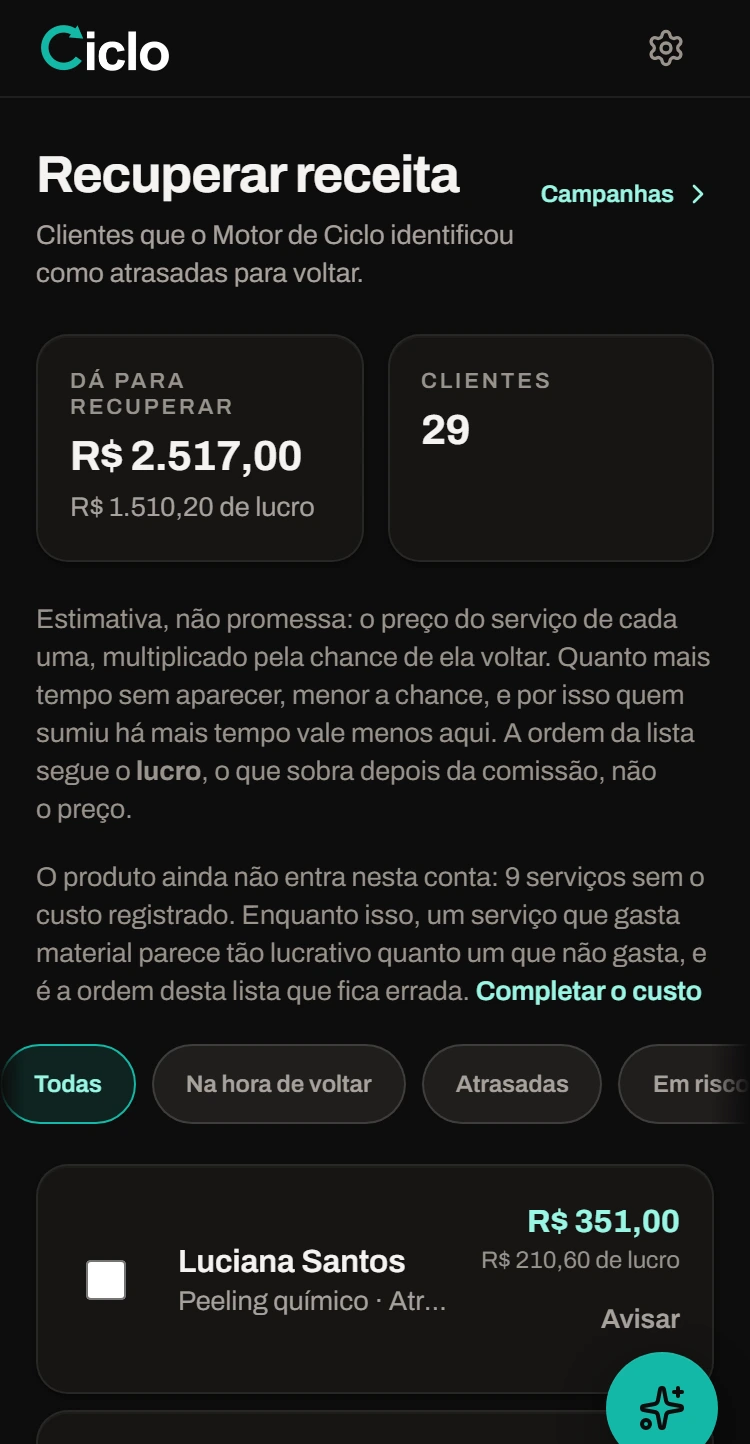
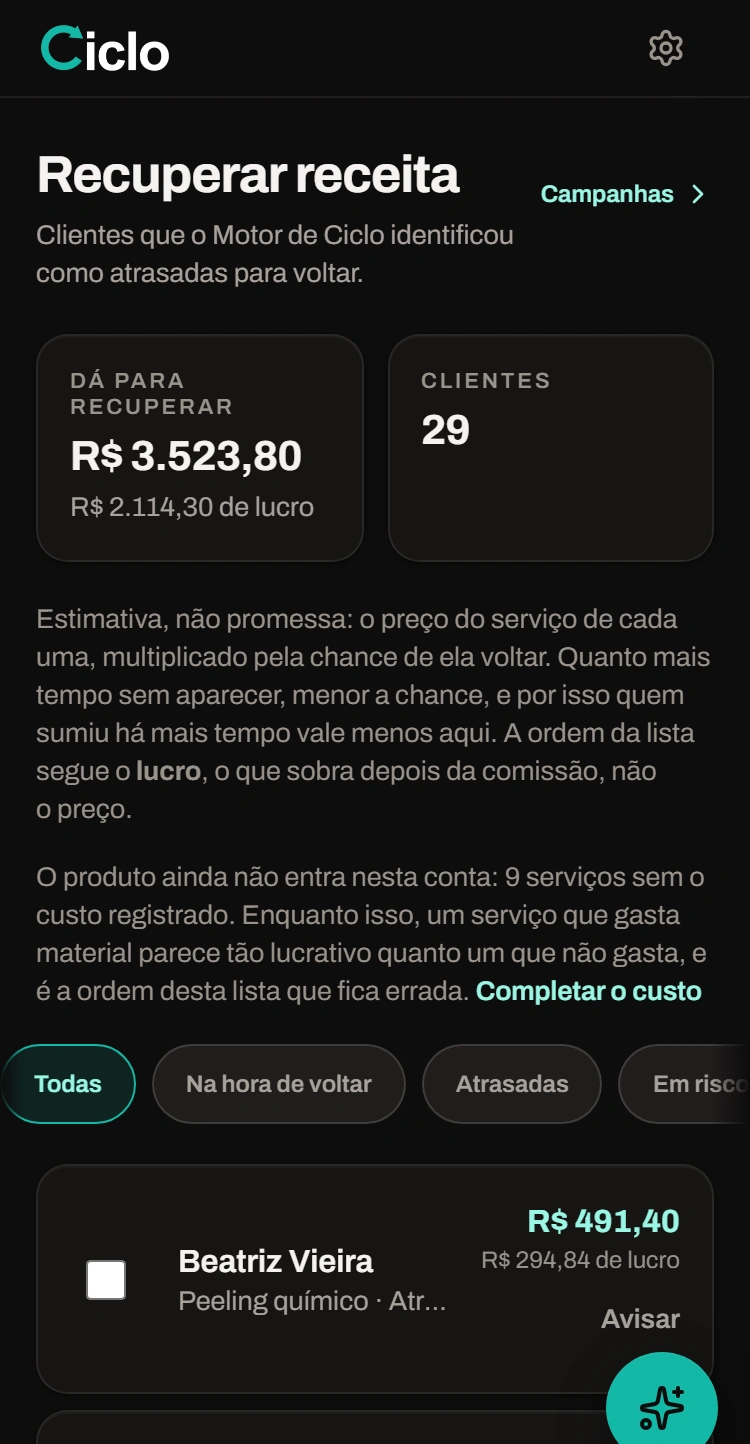
feat(agendamento): Hoje deixa de ficar vazio, Recuperar e Ticket medio sobem mais (TICKET-UX13)
Pedido do usuario: melhorar o print e inflacionar o dinheiro em TODAS
as telas, nao so Recuperar -- inclusive Hoje.

Hoje: nenhuma das seis contas de demo tinha agendamento marcado pro
dia em que alguem abrisse a pagina (o seed gera historico, nunca
futuro). "Nada mais marcado para hoje" e vitrine ruim. Inseri
agendamentos de verdade (appointments, respeitando a exclusion
constraint de nao-sobreposicao por profissional) para hoje em cada
conta -- parte concluida (conta pra "Atendido hoje"), parte confirmada
ou ja chegou. demo-dom-estilo passa de R$ 0,00 pra R$ 540,00, com "A
seguir" e "Faltam N atendimentos hoje" preenchidos de verdade.

Recuperar: mais um fator por cima do que ja estava calibrado (1,4x-
1,8x, variando por conta) -- demo-dom-estilo vai a R$ 2.724,00.

Ticket medio / LTV: clients.ltv_cents (denormalizada, mesmo cron que
nao roda sozinho) subiu 1,5x-1,9x por conta -- "Ticket medio R$ 61,58"
lia como salao de bairro, agora R$ 110,85.

Qualidade: WebP de 92 pra 96 nesta leva de recaptura.

diff --git a/src/app/(public)/[slug]/agendar/painel-do-dono-exemplo.tsx b/src/app/(public)/[slug]/agendar/painel-do-dono-exemplo.tsx
@@ -50,6 +50,25 @@ import FilterRow from "@/components/ui/filter-row";
  * cron rodando isso), então o número não volta a cair sozinho. `demo-dom-estilo` foi calibrada
  * para bater perto do "R$ 1.840" que a home já promete: R$ 1.816,00 agora, mesma ordem de
  * grandeza, não coincidência.
+ *
+ * **Terceira rodada:** três lacunas a mais, todas com a mesma régua (dado real das seis contas,
+ * não um número desenhado à mão).
+ *
+ * A tela "Hoje" chegava vazia — nenhuma das seis contas tinha agendamento marcado para o dia em
+ * que alguém abrisse a página, porque o seed gera histórico (passado), nunca o futuro. "Nada mais
+ * marcado para hoje" é uma boa vitrine para um dia parado; é uma vitrine ruim para o produto.
+ * Inseri agendamentos de verdade (`appointments`, respeitando a constraint de não-sobreposição
+ * por profissional, um serviço e uma cliente reais de cada conta) para o dia de hoje em cada uma
+ * das seis contas — parte concluída (conta para "Atendido hoje"), parte confirmada ou já chegou.
+ * Mesmo risco de envelhecer que a data já tinha: um agendamento "hoje" também é âncora de tempo, e
+ * refazer os prints periodicamente já é manutenção esperada por causa da data, não motivo novo.
+ *
+ * "Recuperar" subiu de novo (mais 1,4×–1,8× em cima do fator da rodada anterior, variando por
+ * conta) — `demo-dom-estilo` está em R$ 2.724,00 agora.
+ *
+ * "Ticket médio" e o LTV de cada cliente (`clients.ltv_cents`, também denormalizada e só escrita
+ * pelo mesmo cron que não roda sozinho) subiram 1,5×–1,9× por conta — o "Ticket médio R$ 61,58"
+ * do print antigo lia como salão de bairro; hoje lê como salão que cobra por serviço de verdade.
  */
 
 type AbaInterna = "hoje" | "recuperar" | "clientes";
